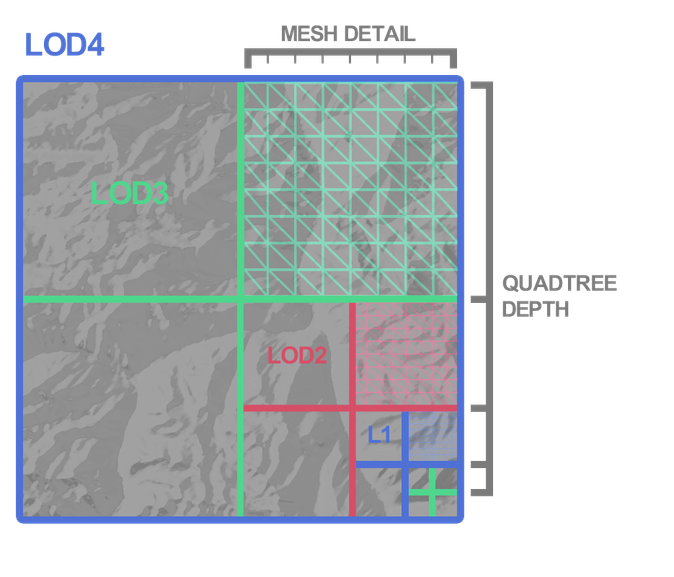
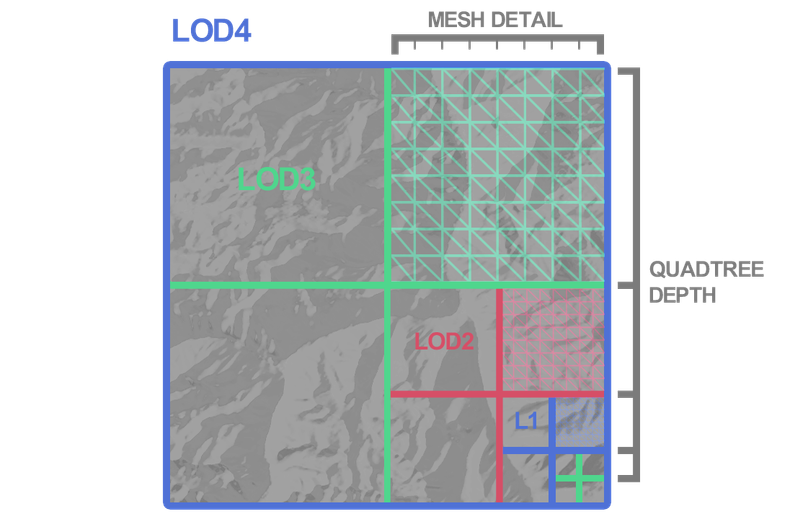
Added quadtree section in planet blog

diff --git a/blog/planet-generation.html b/blog/planet-generation.html
@@ -484,8 +484,7 @@ return color;
                 </p>
 
                 <img src="../media/planet/cdlod_diagram.png" alt="Fibonacci sphere"
-                    style="max-width: 100%; height: auto; display:flex; margin: auto;" loading="lazy"
-                    decoding="async"><br>
+                    style="max-width: 100%; height: auto; display:flex; margin: auto;" loading="lazy" decoding="async">
                 <p style="text-align: center; font-size: smaller; font-style: italic;">CDLOD Terrain | Svante Lindgren
                     2020-06-13</p>
 
@@ -494,13 +493,109 @@ return color;
                     every frame, after rebuilding the tree gets recursively subdivided around the position of the
                     observer (usually the camera) while also taking into account the distance from the nodes.
 
+
+                    CDLOD eliminates traditional artifacts by transforming the "mesh of a higher level into the lower
+                    detailed one before the actual swap occurs. This ensures a perfectly smooth transition with no seams
+                    or artifacts".
+
+                </p>
+
+                <h2 id="quadtree">Quadtree</h2>
+
+
+                <p>
+                    A quadtree is a tree data structure that recursively splits a 2D plane into four child
+                    quadrants (NorthWest, NorthEast, SouthWest, and SouthEast). "Points" can be inserted into this
+                    structure and depending on the implementation, the quadtree can efficiently query points inside a
+                    specific area without having to loop over all points to check.
+
+                </p>
+                <img src="../media/planet/search-quadtree-circle.png" alt="search-quadtree"
+                    style="max-width: 100%; height: auto; display:flex; margin: auto;" loading="lazy" decoding="async">
+                <p style="text-align: center; font-size: smaller; font-style: italic;">Quadtrees #2: Implementation in
+                    Python | <a
+                        href="https://scipython.com/blog/quadtrees-2-implementation-in-python/">scipython.com</a></p>
+
+                <p>
+                    A quadtree can be capacity based for example, which means that the tree recursively splits
+                    up when the amount of points inside a quadrant exceeds the predefined capacity. Resulting into many
+                    tree divisions near areas where a lot of points are. In the real world, this would most likely be
+                    used for something like collision detections where the system needs to check if objects are
+                    overlapping/colliding.
+
                 </p>
 
 
+                <p>
+                    To start implementing CDLOD for my planet generator I had to start with quadtrees but at that point
+                    I was only really aware about the name (Quadtrees) but had absolutely no clue how they worked and
+                    how they could be used. That's why I decided to first try and implement the most basic version in a
+                    standalone c++ project.
+                </p>
+
+                <img src="../media/planet/capacity-quadtree.gif" alt="search-quadtree"
+                    style="max-width: 65%; height: auto; display:flex; margin: auto;" loading="lazy" decoding="async">
+                <p style="text-align: center; font-size: smaller; font-style: italic;">Quadrants with lots of
+                    points have more subdivision. The capacity was set to 2 points per quadrant.</p>
+
+                <p>
+                    <br>In this example there are 300 points inserted in the quadtree. On the first frame, the quadtree
+                    is built which means it subdivides based on the points plotted in the tree. Instead of having to
+                    check all 300 points to see which ones are in my query area (green
+                    rectangle), only a fraction of those total points needed to be checked, dramatically reducing the
+                    the number of checks needed for the result.
+                </p>
+
+                <p>
+                    In terms of code, when a point gets inserted, the root node (top most node in the tree structure)
+                    recursively goes over any quadrants it needs to make sure that the point goes into a quadrant where
+                    no subdivision is needed.
+                </p>
+
+                <pre><code class="language-cpp">
+bool Quadtree::Insert(Point& point)
+{
+    // Only continue if the point is inserted into this quadrants boundary.
+	if (!boundary.Contains(point)) 
+		return false;
+
+    // If this new point doesn't exceeds the capacity, add it to this quadrant and return true.
+	if (points.size() < capacity)
+	{
+		points.push_back(point);
+		return true;
+	}
+	else
+	{
+        // If this quadrant is a leaf node (node without children) it can subdivide.
+		if (!divided) 
+			Subdivide();
+
+        //Resursively insert point untill a point is successfully inserted somewhere.
+		if (childNw->Insert(point)) return true;
+		else if (childNe->Insert(point)) return true;
+		else if (childSe->Insert(point)) return true;
+		else if (childSw->Insert(point)) return true;
+	}
+
+	return false;
+}
+</code></pre>
+
+                <p>
+                    This little experiment was vital for my understanding on the actual applications for quadtrees. This
+                    was then quite easily ported to unreal, the only parts I had to swap out, were `std::vectors` for
+                    Unreal's `TArray` and the debug drawing.
+                </p>
+
+                <img src="../media/planet/capacity_quadtree_ue.png" alt="capacity_quadtree_ue"
+                    style="max-width: 100%; height: auto; display:flex; margin: auto;" loading="lazy" decoding="async">
+                <p style="text-align: center; font-size: smaller; font-style: italic;">Quadrant experiment ported over
+                    to Unreal 5.8.</p>
 
             </div>
 
-            <h2 class="references">
+            <h2 id="references">
                 https://svnte.se/cdlod-terrain
 
             </h2>
